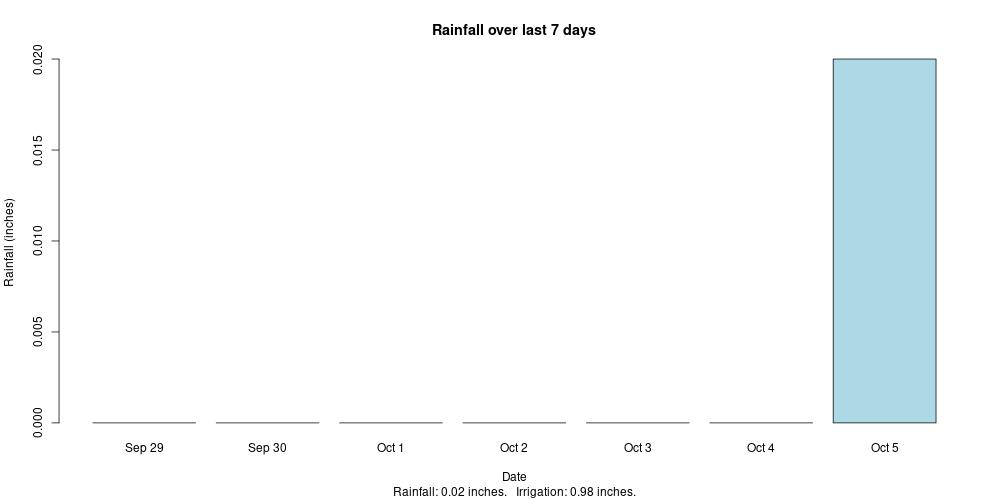
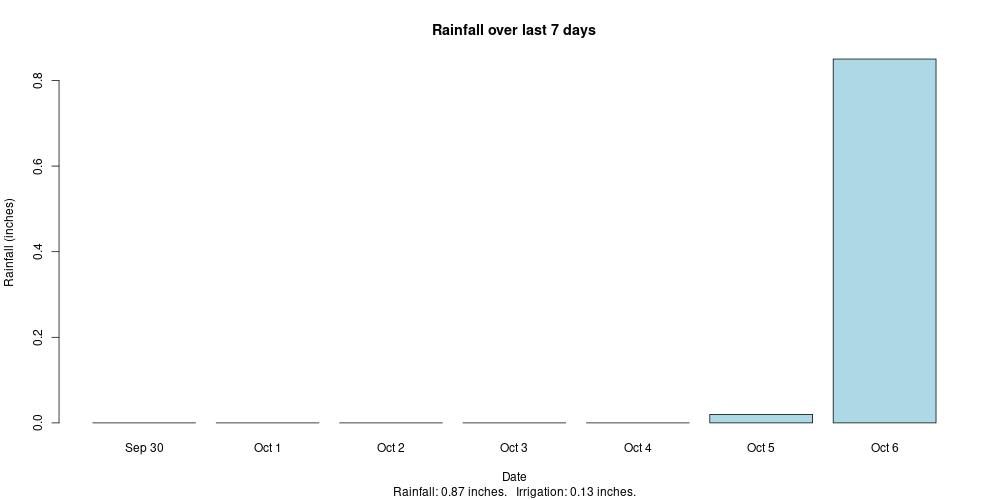
Auto-update rainfall data 2025-10-07 06:00:02

diff --git a/index.html b/index.html
@@ -14,8 +14,8 @@ img { max-width: 100%; height: auto; }
 <body>
 <h1>Byron, GA, 7 day Rainfall Report</h1>
 <div class="summary">
-<p><strong>Cumulative rainfall for the past week:</strong> 0.02 inches</p>
-<p><strong>Recommended irrigation:</strong> 0.98 inches</p>
+<p><strong>Cumulative rainfall for the past week:</strong> 0.87 inches</p>
+<p><strong>Recommended irrigation:</strong> 0.13 inches</p>
 </div>
 <h2>Detailed Data</h2>
 <table>
@@ -29,13 +29,6 @@ img { max-width: 100%; height: auto; }
   </tr>
  </thead>
 <tbody>
-  <tr>
-   <td style="text-align:left;"> Sep 29 </td>
-   <td style="text-align:left;"> 78.3 </td>
-   <td style="text-align:left;"> 67.5 </td>
-   <td style="text-align:left;"> 85.6 </td>
-   <td style="text-align:right;"> 0.00 </td>
-  </tr>
   <tr>
    <td style="text-align:left;"> Sep 30 </td>
    <td style="text-align:left;"> 76.6 </td>
@@ -78,11 +71,18 @@ img { max-width: 100%; height: auto; }
    <td style="text-align:left;"> 89.6 </td>
    <td style="text-align:right;"> 0.02 </td>
   </tr>
+  <tr>
+   <td style="text-align:left;"> Oct 6 </td>
+   <td style="text-align:left;"> 83.5 </td>
+   <td style="text-align:left;"> 68.4 </td>
+   <td style="text-align:left;"> 88.1 </td>
+   <td style="text-align:right;"> 0.85 </td>
+  </tr>
 </tbody>
 </table>
 <h2>Rainfall Visualization</h2>
 <img src="stats.jpg" alt="Rainfall chart">
 
-<p><em>Last updated: October 06, 2025 23:17:29</em></p>
+<p><em>Last updated: October 07, 2025 06:00:02</em></p>
 </body>
 </html>
